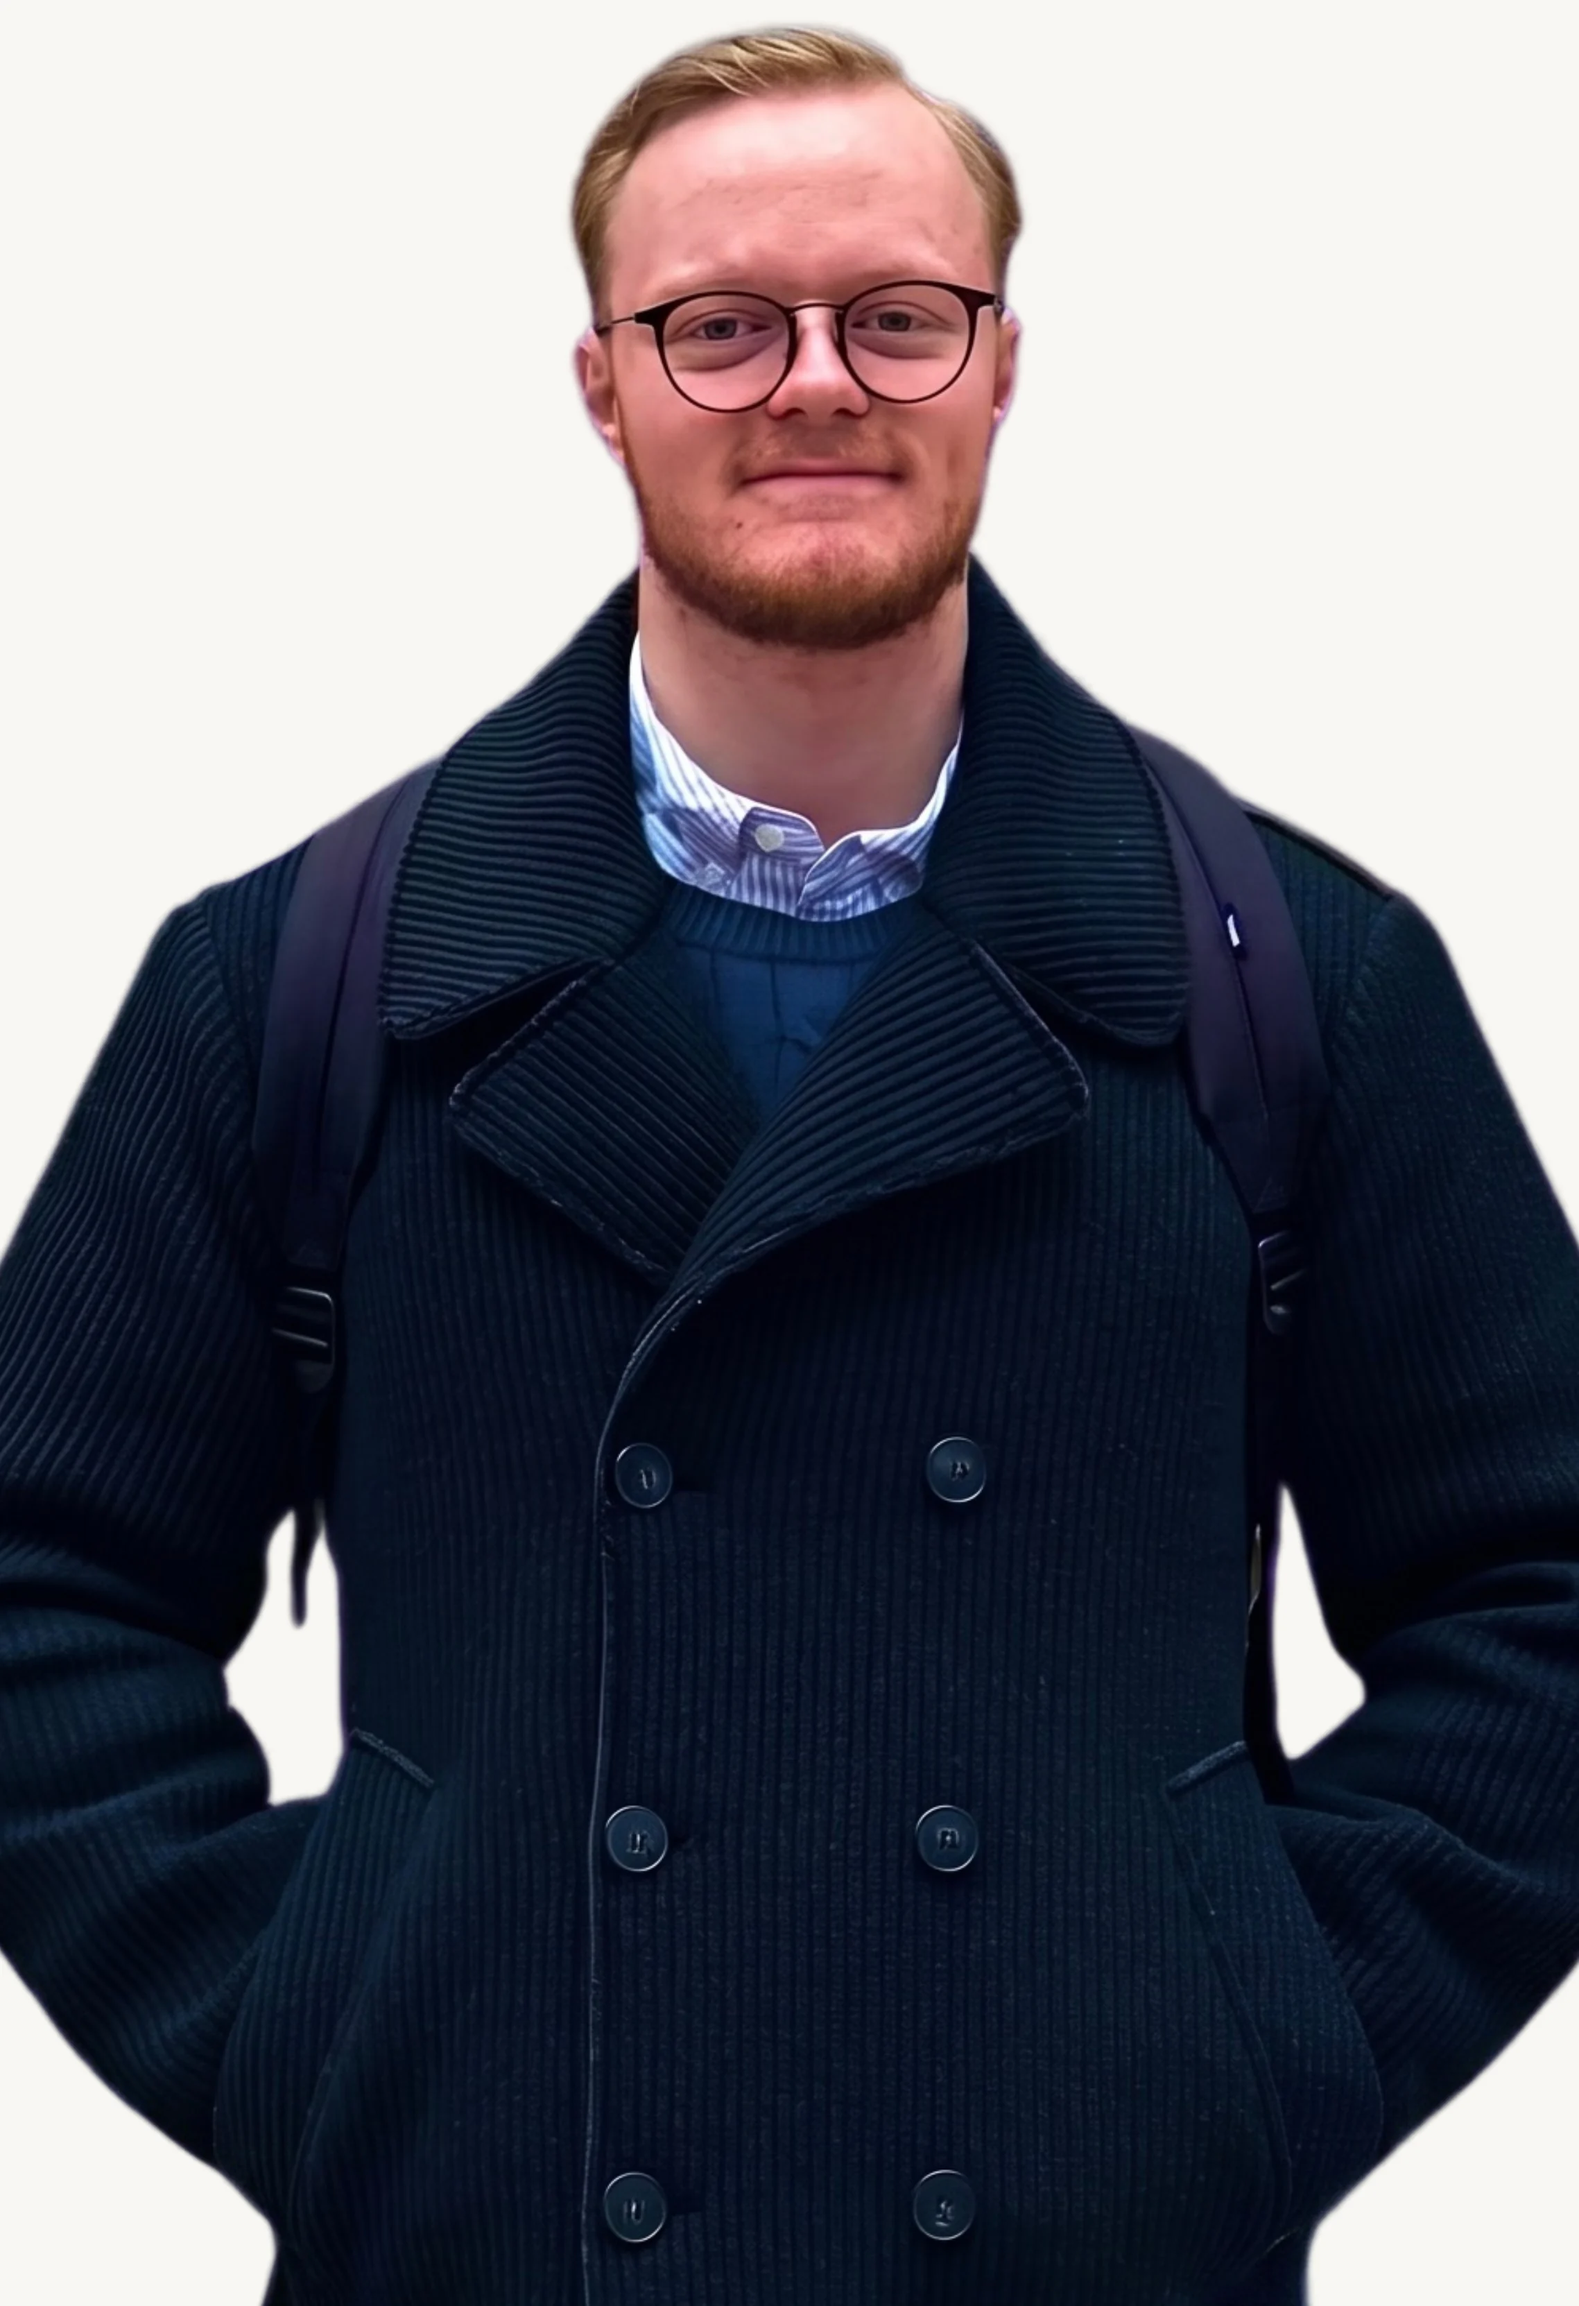
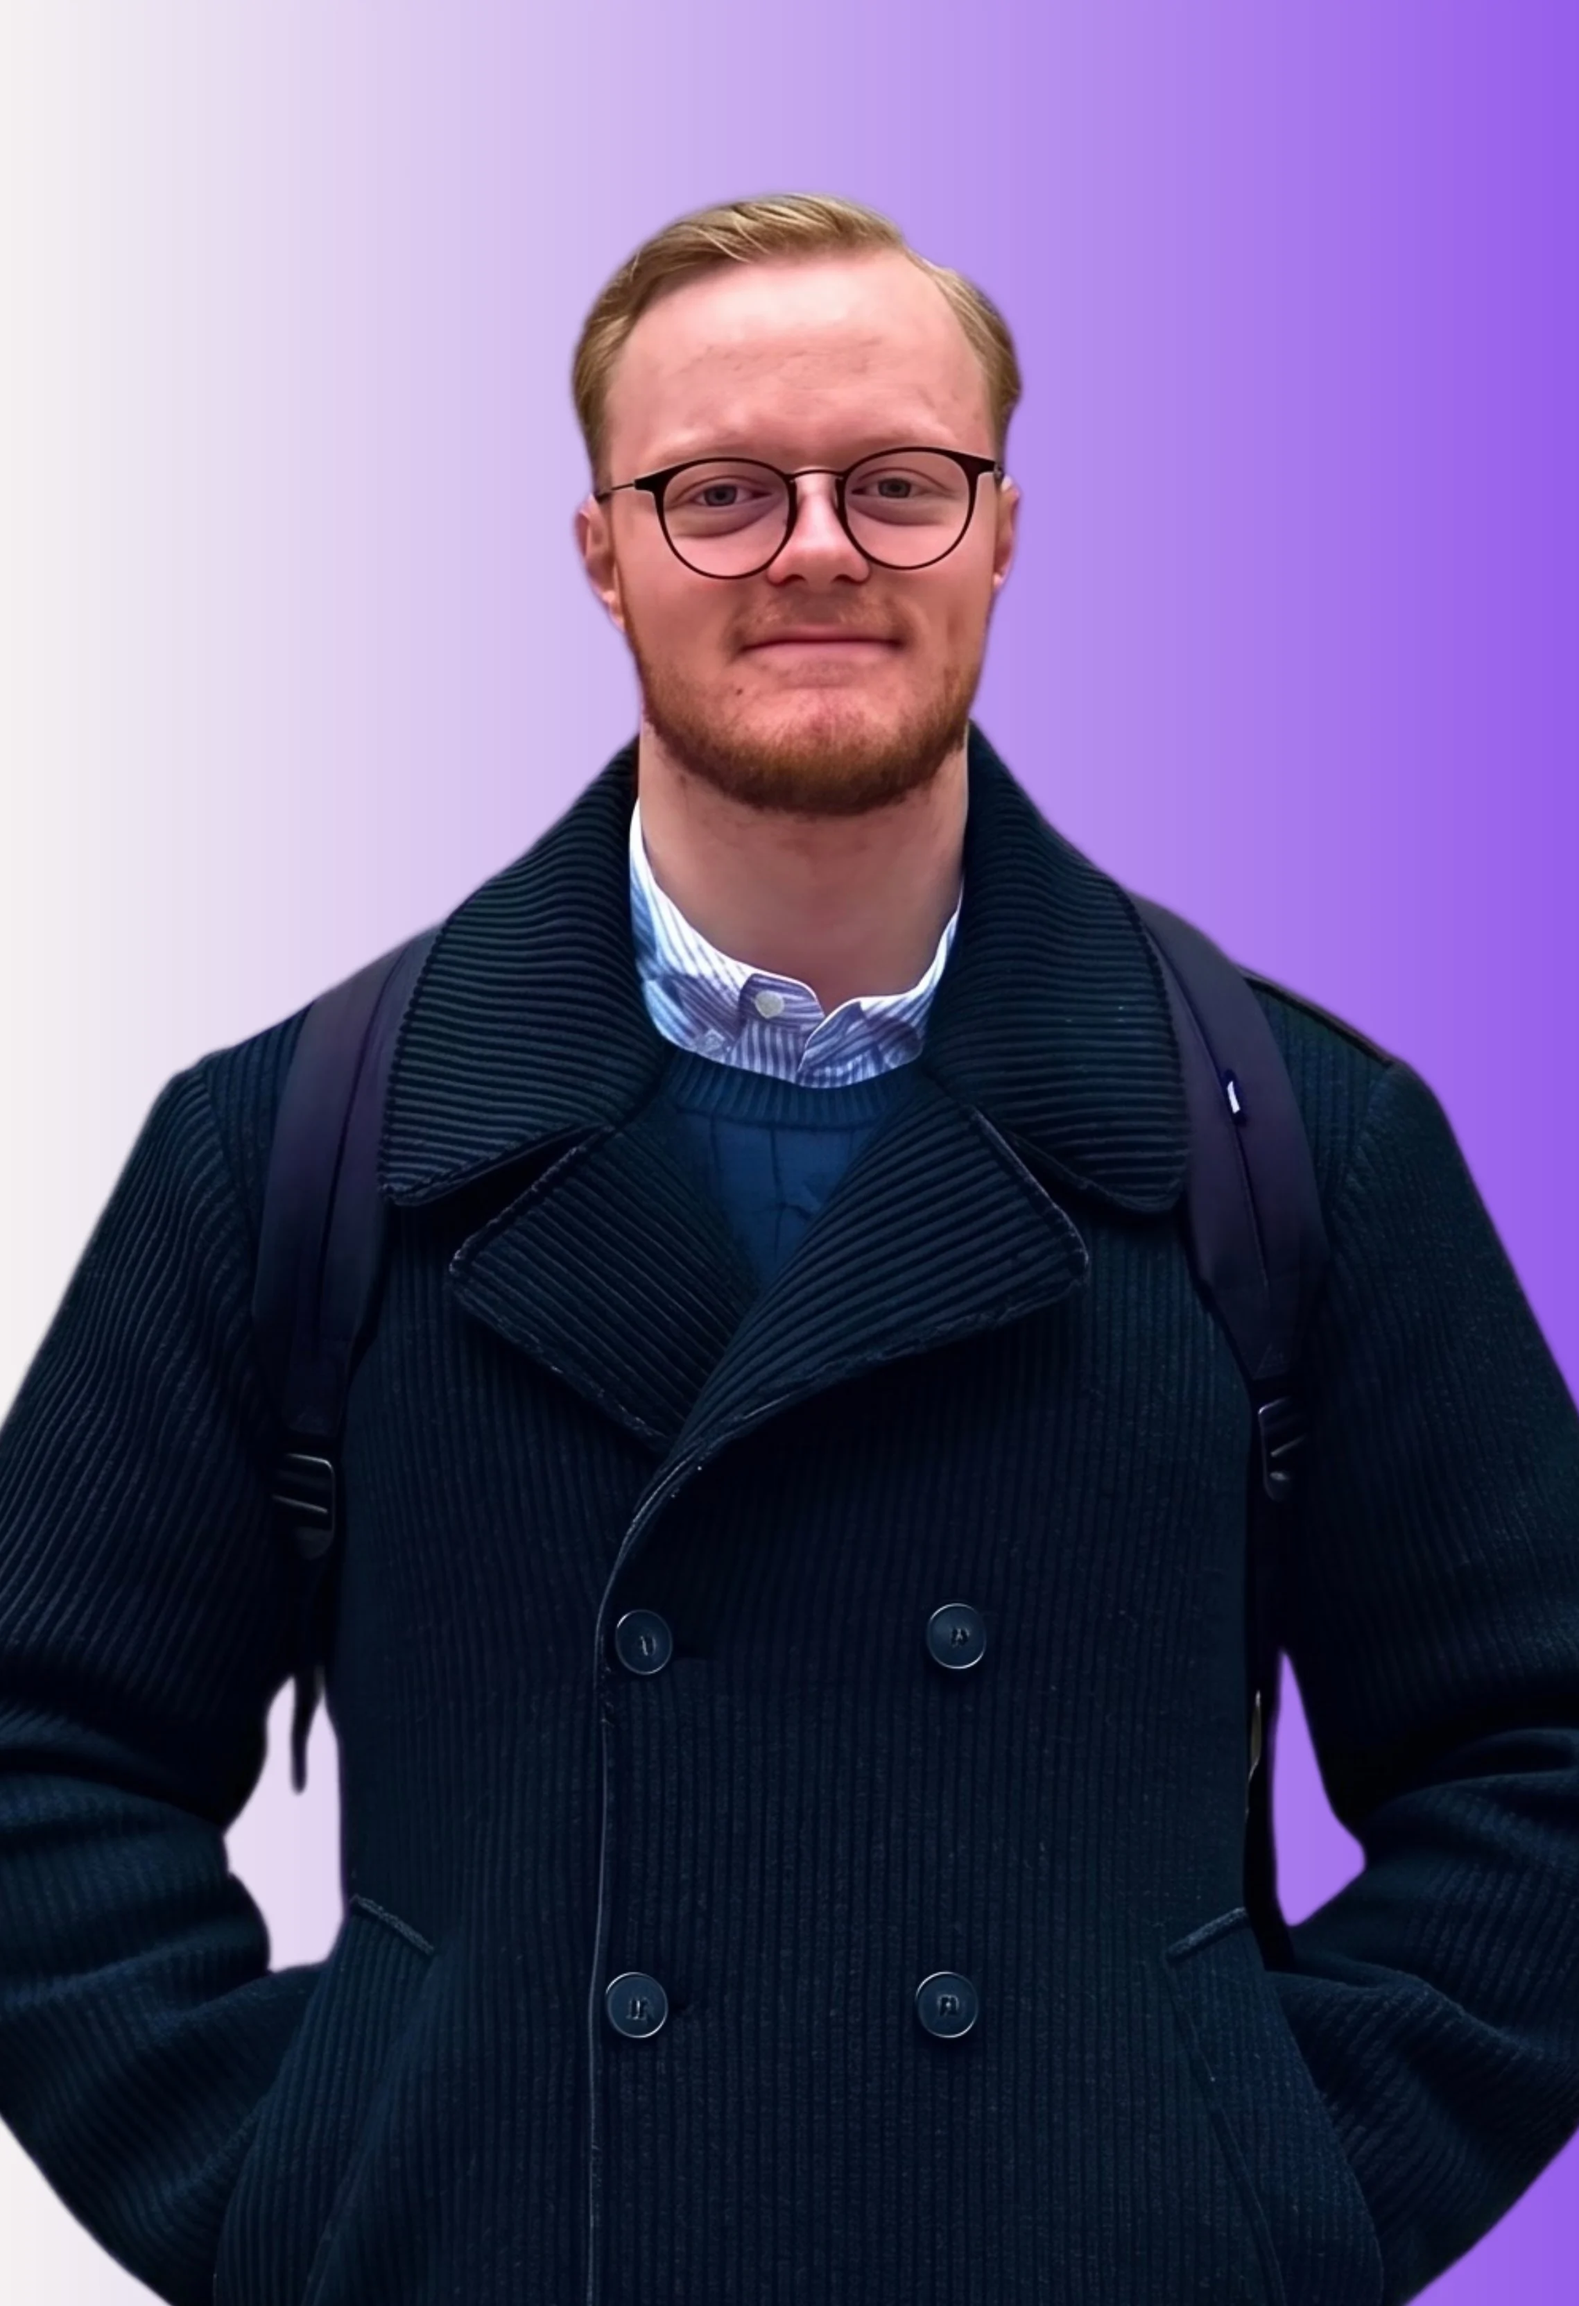
Update about imagery

diff --git a/assets/css/custom-styles.css b/assets/css/custom-styles.css
@@ -4850,7 +4850,7 @@ p {
 .bio-section__media--simon img {
   aspect-ratio: 0.88;
   object-position: 58% top;
-  transform: translateX(10%) scale(2.7);
+  transform: translateX(14.5%) scale(2.97);
   transform-origin: center 44%;
 }
 
@@ -5101,7 +5101,7 @@ p {
   .bio-section__media--simon img {
     aspect-ratio: 0.94;
     object-position: 58% top;
-    transform: translateX(8.5%) scale(2.46);
+    transform: translateX(12.5%) scale(2.71);
     transform-origin: center 42%;
   }
 
